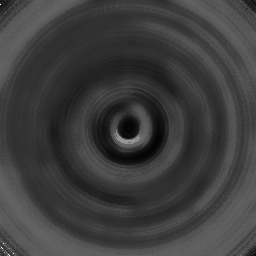
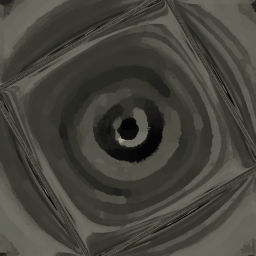
small change to void texture as well as adding wv_close to the set of wm params

diff --git a/matchThree.cpp b/matchThree.cpp
@@ -101,10 +101,12 @@ LRESULT CALLBACK WindowProc(
 	switch (msg)
 	{
 	case WM_DESTROY:
+	case WM_CLOSE:
 	{
 		PostQuitMessage(0);
 		return 0;
-	}break;
+	}
+
 	case WM_SIZE:
 	{
 		RECT window;
@@ -632,7 +634,7 @@ int WINAPI WinMain(HINSTANCE hInstance,
 				break;
 			}
 
-		}	//Render a frame
+		}	
 		
 		mouseDown = 0;
 		if ((GetKeyState(VK_LBUTTON) & 0x80) != 0)
